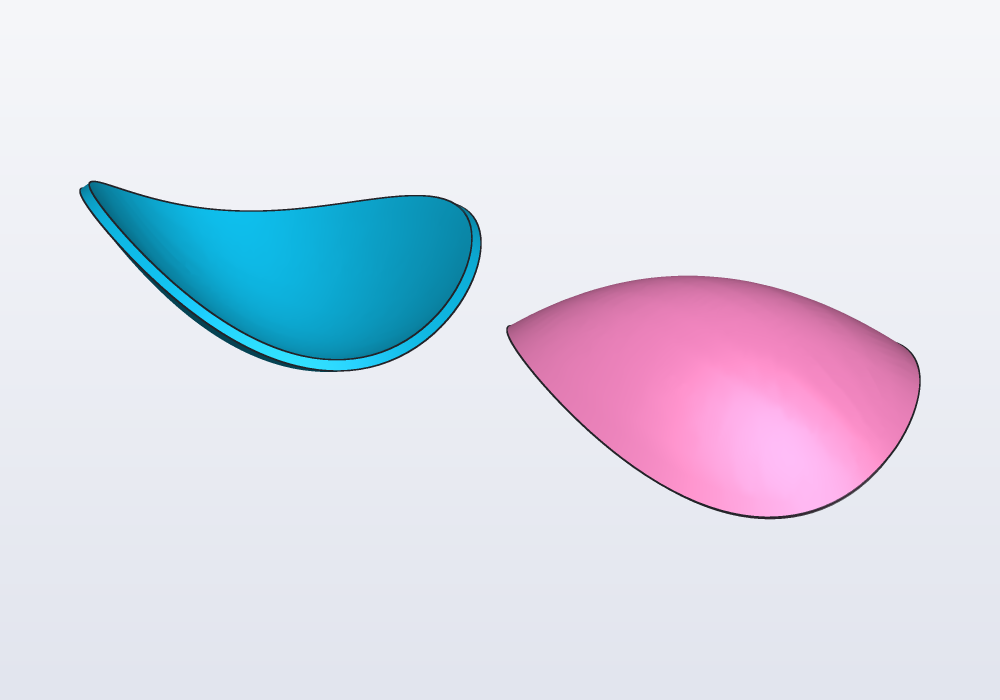
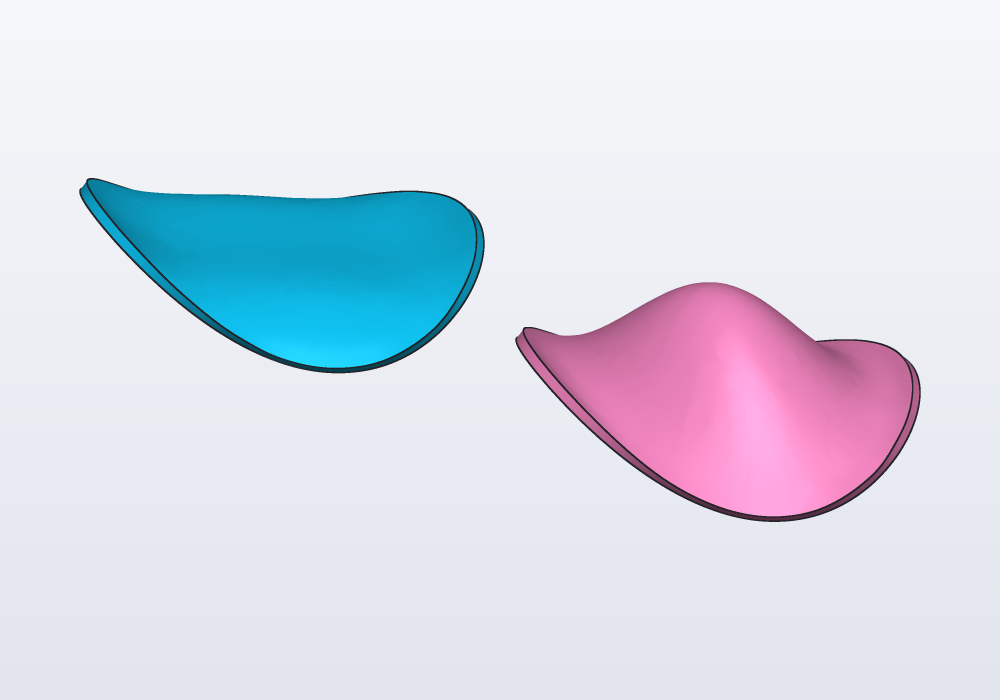
fill follows a curved rim exactly, through chords (a workaround with its sentinel test); the boxes of trimmed B-spline and offset faces are tight

diff --git a/source/hackerscad/kernel/occt/shim.cpp b/source/hackerscad/kernel/occt/shim.cpp
@@ -46,6 +46,7 @@
 #include <BRepBndLib.hxx>
 #include <Bnd_Box.hxx>
 #include <BRepCheck_Analyzer.hxx>
+#include <GCPnts_QuasiUniformDeflection.hxx>
 #include <BRepCheck_Shell.hxx>
 #include <BRepMesh_IncrementalMesh.hxx>
 #include <BRepLProp_SLProps.hxx>
@@ -269,12 +270,12 @@ extern "C" {
 const char *hc_last_error(void) { return g_error.c_str(); }
 
 // the WORKAROUNDs below that a test can turn off (hc_workaround)
-static std::atomic<bool> g_workarounds[5] = {{true}, {true}, {true}, {true}, {true}};
+static std::atomic<bool> g_workarounds[6] = {{true}, {true}, {true}, {true}, {true}, {true}};
 static bool workaround(int which) { return g_workarounds[which].load(); }
 
 void hc_workaround(int which, int on)
 {
-    if (which >= 0 && which < 5)
+    if (which >= 0 && which < 6)
         g_workarounds[which] = on != 0;
 }
 
@@ -2495,7 +2496,18 @@ int hc_bbox(const hc_shape *s, double out[6])
         for (TopExp_Explorer f(s->shape, TopAbs_FACE); f.More(); f.Next())
         {
             const TopoDS_Face &face = TopoDS::Face(f.Current());
-            if (BRepAdaptor_Surface(face, false).GetType() == GeomAbs_Torus)
+            const GeomAbs_SurfaceType type = BRepAdaptor_Surface(face, false).GetType();
+            // a B-spline (or a surface offset from one) trimmed by a boundary that is not its four sides
+            // (fill's plates, thickened): its
+            // box from the rectangle of parameters round the boundary takes in surface beyond it
+            bool trimmed = false;
+            if (type == GeomAbs_BSplineSurface || type == GeomAbs_BezierSurface || type == GeomAbs_OffsetSurface) {
+                int edges = 0;
+                for (TopExp_Explorer e(BRepTools::OuterWire(face), TopAbs_EDGE); e.More(); e.Next())
+                    edges++;
+                trimmed = edges != 4;
+            }
+            if (type == GeomAbs_Torus || trimmed)
                 slow.push_back(face);
             else
                 BRepBndLib::AddOptimal(face, b, false, false);
@@ -3816,13 +3828,33 @@ hc_shape *hc_fill(const hc_shape *path, const hc_shape *s, const int *idx, int n
 {
     return guarded<>((hc_shape *)nullptr, [&]() -> hc_shape * {
         BRepOffsetAPI_MakeFilling fill;
+        // WORKAROUND (OpenCascade 7.9.3, BRepOffsetAPI_MakeFilling): along curved edges the plate
+        // strays far from its boundary (a saddle rim 4 mm deep filled by a bowl 8 mm deep, whatever
+        // its degree, points and iterations), and follows straight ones exactly: the edges that
+        // need no tangency are added as chords, short enough to stay within 0.005 mm of the curve.
+        // The "known bugs" unittest in lang/tests.d turns this off (HC_WORKAROUND_FILL_CHORDS)
+        auto addPieces = [&](const TopoDS_Edge &e) {
+            BRepAdaptor_Curve c(e);
+            if (!workaround(HC_WORKAROUND_FILL_CHORDS) || c.GetType() == GeomAbs_Line) {
+                fill.Add(e, GeomAbs_C0);
+                return;
+            }
+            GCPnts_QuasiUniformDeflection pts(c, 0.005);
+            if (!pts.IsDone() || pts.NbPoints() < 2) {
+                fill.Add(e, GeomAbs_C0);
+                return;
+            }
+            for (int k = 1; k < pts.NbPoints(); k++)
+                if (pts.Value(k).Distance(pts.Value(k + 1)) > 1e-7)
+                    fill.Add(BRepBuilderAPI_MakeEdge(pts.Value(k), pts.Value(k + 1)).Edge(), GeomAbs_C0);
+        };
         std::vector<TopoDS_Edge> edges;
         if (path != nullptr) {
             const TopoDS_Wire w = single_wire(path->shape);
             if (!BRep_Tool::IsClosed(w))
                 throw Standard_Failure("fill closes a loop: the path must end where it starts (closed: true)");
             for (TopExp_Explorer ex(w, TopAbs_EDGE); ex.More(); ex.Next())
-                fill.Add(TopoDS::Edge(ex.Current()), GeomAbs_C0);
+                addPieces(TopoDS::Edge(ex.Current()));
         } else {
             const auto &em = map_of(s, TopAbs_EDGE);
             const auto &fm = map_of(s, TopAbs_FACE);
@@ -3847,7 +3879,7 @@ hc_shape *hc_fill(const hc_shape *path, const hc_shape *s, const int *idx, int n
                             if (tangent[k] >= 0 && tangent[k] < fm.Extent() && f.IsSame(fm(tangent[k] + 1)))
                                 along = TopoDS::Face(f);
                 if (along.IsNull())
-                    fill.Add(e, GeomAbs_C0);
+                    addPieces(e);
                 else
                     fill.Add(e, along, GeomAbs_G1);
             }

diff --git a/source/hackerscad/kernel/occt/shim.h b/source/hackerscad/kernel/occt/shim.h
@@ -28,7 +28,8 @@ const char *hc_last_error(void);
 /* Workarounds for bugs of OpenCascade (WORKAROUND in shim.cpp), all on at
  * start. A test turns one off to see whether the bug is still there. */
 enum { HC_WORKAROUND_MESH_DIVIDE = 0, HC_WORKAROUND_SHELL_STRATEGIES = 1, HC_WORKAROUND_HELIX_PIECES = 2,
-    HC_WORKAROUND_MESH_VOLUME = 3, HC_WORKAROUND_OFFSET_TOLERANCE = 4 };
+    HC_WORKAROUND_MESH_VOLUME = 3, HC_WORKAROUND_OFFSET_TOLERANCE = 4,
+    HC_WORKAROUND_FILL_CHORDS = 5 };
 void hc_workaround(int which, int on);
 
 /* Face history of the last operation on this thread: for every face of the
